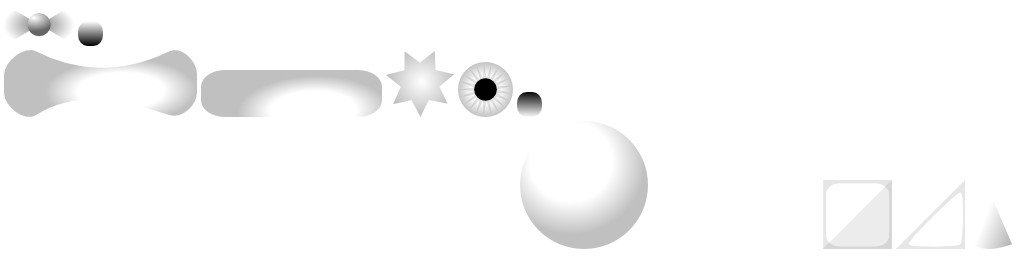
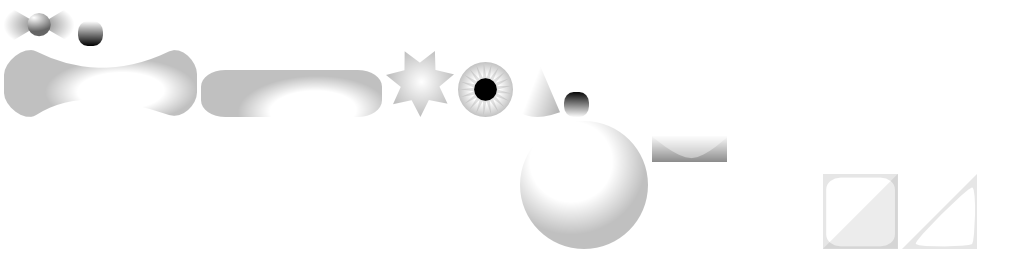
Changed textures. Allow for click selection. Better modularized Level class

diff --git a/core/src/com/morejesuslessme/tnelsond/unmutate/Level.java b/core/src/com/morejesuslessme/tnelsond/unmutate/Level.java
@@ -17,22 +17,46 @@ import com.badlogic.gdx.graphics.g2d.TextureAtlas.AtlasRegion;
 import com.badlogic.gdx.math.Vector3;
 
 public class Level {
-	public static enum blocktype{
-		DIRT, NONE, UPLEFT, UPRIGHT, DOWNLEFT, DOWNRIGHT, GRASS
-	}
-	public AtlasRegion dirt, slant;
+	public AtlasRegion dirt, slant, grass;
 	public int w = 12;
 	public int h = 16;
 	public int tile = 32;
-	public blocktype blocks[][];
-	public float GRAVITY = 0.4f;
+	public int blocks[][];
 	public Index[] spawns = new Index[4];
+
+	public float GRAVITY = 0.4f;
+
+	public final static int NONE = 1;
+	public final static int DIRT = 2;
+	public final static int GRASS = 3;
+	public Special[] special = new Special[10];
+
+	public Color dirtColor = new Color(.4f, 0.2f, 0, 1);
+	public Color dirtColor2 = new Color(.3f, 0.16f, 0, 1);
+	public Color grassColor = new Color(.2f, .5f, 0, 1);
+	public Color skyColor = new Color(.4f, .8f, 1, 1);
+	
+	public boolean isSpecial(int n){
+		return n <= 0;
+	}
+
+	public Special getSpecial(int n){
+		return special[-n];
+	}
+
+	// Checks if a special block is solid
+	public boolean isSpecialSolid(int n, Creature c){
+		if(n <= 0 && special[-n] != null){
+			return special[-n].isSolid(c);	
+		}
+		return false;
+	}
 
 	LinkedList grassGrow = new LinkedList();
 
 	public void consume(int r, int c){
-		if(blocks[r][c] == Level.blocktype.GRASS){
-			blocks[r][c] = Level.blocktype.DIRT;
+		if(blocks[r][c] == Level.GRASS){
+			blocks[r][c] = Level.DIRT;
 			int offset = 0;
 			if(grassGrow.size() > 0){
 				TileAction last = (TileAction) grassGrow.getLast();
@@ -46,7 +70,7 @@ public class Level {
 		if(grassGrow.size() > 0){
 			TileAction t = (TileAction) grassGrow.element();
 			if(t != null && t.tick()){
-				blocks[t.r][t.c] = Level.blocktype.GRASS;
+				blocks[t.r][t.c] = Level.GRASS;
 				grassGrow.remove(t);
 			}
 		}
@@ -55,11 +79,12 @@ public class Level {
 	public Level(TextureAtlas atlas, String filename){
 		dirt = atlas.findRegion("dirt");
 		slant = atlas.findRegion("dirtslant");
+		grass = atlas.findRegion("grass");
 		Reader reader = Gdx.files.internal(filename).reader();
 		Scanner scan = new Scanner(reader);
 		w = scan.nextInt();
 		h = scan.nextInt();
-		blocks = new blocktype[h][w];
+		blocks = new int[h][w];
 		int row = h;
 		int spawn = 0;
 		while(scan.hasNextLine()) {
@@ -68,21 +93,22 @@ public class Level {
 			for(int i=0; i<str.length(); ++i){
 				char ch = str.charAt(i);
 				if(ch == '#'){
-					blocks[row][col] = Level.blocktype.DIRT;
+					blocks[row][col] = Level.DIRT;
 				}
 				else if(ch == 'o'){
-					blocks[row][col] = Level.blocktype.GRASS;
+					blocks[row][col] = Level.GRASS;
 				}
 				else if(ch == '$'){
 					spawns[spawn++] = new Index(row, col);
-					blocks[row][col] = Level.blocktype.NONE;
+					blocks[row][col] = Level.NONE;
 				}
+				/*
 				else if(ch == '/'){
 					if(row < h && blocks[row + 1][col] == Level.blocktype.DIRT){
-						blocks[row][col] = Level.blocktype.UPLEFT;
+						blocks[row][col] = BlockType.UPLEFT;
 					}
 					else{
-						blocks[row][col] = Level.blocktype.DOWNRIGHT;
+						blocks[row][col] = BlockType.DOWNRIGHT;
 					}
 				}
 				else if(ch == '\\'){
@@ -93,8 +119,9 @@ public class Level {
 						blocks[row][col] = Level.blocktype.DOWNLEFT;
 					}
 				}
+				*/
 				else
-					blocks[row][col] = Level.blocktype.NONE;
+					blocks[row][col] = Level.NONE;
 				++col;
 			}
 			--row;
@@ -111,26 +138,32 @@ public class Level {
 			return;
 		for(int r=r1; r<r2; ++r){
 			for(int c=c1; c<c2; ++c){
-				if(blocks[r][c] != Level.blocktype.NONE){
-					if(blocks[r][c] == Level.blocktype.GRASS){
-						if((r + c) % 2 == 1)
-							batch.setColor(.1f, .7f, .0f, 1);
-						else
-							batch.setColor(.1f, .6f, .0f, 1);
+				if(blocks[r][c] != Level.NONE){
+					if(isSpecial(blocks[r][c])){
+						batch.setColor(getSpecial(blocks[r][c]).outside);
 					}
+					else
+						batch.setColor(((r + c) % 2 == 1) ? dirtColor : dirtColor2);
+					/*
 					else{
 						if((r + c) % 2 == 1)
 							batch.setColor(.4f, .3f, 0, 1);
 						else
 							batch.setColor(.3f, .2f, 0, 1);
-						if(blocks[r][c] != Level.blocktype.DIRT){
-							batch.draw(slant, c*tile, r*tile, tile/2, tile/2, tile, tile, (blocks[r][c] == Level.blocktype.UPLEFT || blocks[r][c] == Level.blocktype.DOWNLEFT) ? -1 : 1, (blocks[r][c] == Level.blocktype.UPRIGHT || blocks[r][c] == Level.blocktype.UPLEFT) ? -1 : 1, 0);
+						if(blocks[r][c] != BlockType.DIRT){
+							batch.draw(slant, c*tile, r*tile, tile/2, tile/2, tile, tile, (blocks[r][c] == BlockType.UPLEFT || blocks[r][c] == Level.blocktype.DOWNLEFT) ? -1 : 1, (blocks[r][c] == Level.blocktype.UPRIGHT || blocks[r][c] == Level.blocktype.UPLEFT) ? -1 : 1, 0);
 							continue;
 						}
 					}
+					*/
 
 					//batch.draw(dirt, c*tile - 0.5f, r*tile - 0.5f, tile + 1, tile + 1); // Compensating for gaps.
 					batch.draw(dirt, c*tile, r*tile, tile, tile); // Compensating for gaps.
+
+					if(blocks[r][c] == Level.GRASS){
+						batch.setColor(grassColor);
+						batch.draw(grass, c*tile, r*tile + tile*3/4, tile, tile/3); // Compensating for gaps.
+					}
 				}
 			}
 		}

diff --git a/core/src/com/morejesuslessme/tnelsond/unmutate/TInput.java b/core/src/com/morejesuslessme/tnelsond/unmutate/TInput.java
@@ -114,6 +114,8 @@ public class TInput implements InputProcessor {
 		int index = -1;
 		Creature temp = null;
 		Creature otherparent = null;
+		if(game.selectedCreature == null)
+			return;
 		if(!game.selectedCreature.breedable)
 			game.selectedCreature.checkForGrass(game.currentlevel);
 		if(game.selectedCreature.breedable && game.selectedCreature.sex != Genome.Sex.STERILE){
@@ -282,17 +284,23 @@ public class TInput implements InputProcessor {
 		return false;
 	}
 
-	public boolean touchDown (int x, int y, int pointer, int button) {
-		if(game.selectedCreature == null){
-			for(Creature c : game.creatures){
-				if(c != null){
-					Vector3 pos = new Vector3(x, y, 0);
-					game.viewport.unproject(pos);
-					if(c.contains(pos.x, pos.y)){
-						game.setCreature(c);
-					}
+	public void clickCreature(int x, int y){
+		for(int i = game.creatures.length - 1; i >= 0; --i){
+			Creature c = game.creatures[i];
+			if(c != null){
+				Vector3 pos = new Vector3(x, y, 0);
+				game.viewport.unproject(pos);
+				if(c.contains(pos.x, pos.y)){
+					game.setCreature(c);
+					break;
 				}
 			}
+		}
+	}
+
+	public boolean touchDown (int x, int y, int pointer, int button) {
+		if(game.selectedCreature == null){
+			clickCreature(x, y);	
 			return true;
 		}
 		if(touchpad.pointer < 0){
@@ -309,7 +317,12 @@ public class TInput implements InputProcessor {
 	public boolean touchUp (int x, int y, int pointer, int button) {
 		TTouch sel = (pointer == touchpad.pointer ? touchpad : othertouch);
 		sel.pointer = -1;
+		if(sel.getDuration() < 400 && Math.abs(sel.x - sel.sx) < touchpadminradius && Math.abs(sel.y - sel.sy) < touchpadminradius){
+			clickCreature(x, y);
+		}
+
 		sel.sx = -1;
+
 		
 		return false;
 	}

diff --git a/core/src/com/morejesuslessme/tnelsond/unmutate/Creature.java b/core/src/com/morejesuslessme/tnelsond/unmutate/Creature.java
@@ -8,7 +8,6 @@ import com.badlogic.gdx.graphics.Pixmap;
 import com.badlogic.gdx.graphics.g2d.SpriteBatch;
 import com.badlogic.gdx.graphics.g2d.TextureAtlas.AtlasRegion;
 import com.badlogic.gdx.graphics.g2d.TextureAtlas;
-import com.morejesuslessme.tnelsond.unmutate.Level.blocktype;
 
 
 public class Creature extends Rectangle {
@@ -231,8 +230,8 @@ public class Creature extends Rectangle {
 			while(row.hasNext()) {
 				r = (Integer) row.next();
 				//batch.draw(level.yellowRegion, c*level.tile, r*level.tile);
-				blocktype b = level.blocks[r][c];
-				if(b != blocktype.NONE){
+				int b = level.blocks[r][c];
+				if(b != Level.NONE){
 					x = c*level.tile + cor;
 					vx = 0;
 					done = true;
@@ -293,14 +292,14 @@ public class Creature extends Rectangle {
 			while(col.hasNext()) {
 				c = (Integer) col.next();
 				//batch.draw(level.yellowRegion, c*level.tile, r*level.tile);
-				Level.blocktype b = level.blocks[r][c];
-				if(b != blocktype.NONE){
+				int b = level.blocks[r][c];
+				if(b != Level.NONE){
 					if(v < 0)
 						onGround = true;
 					y = r*level.tile + cor;
 					vy = 0;
 					done = true;
-					if(b == blocktype.GRASS){
+					if(b == Level.GRASS){
 						grassc = c;
 						grassr = r;
 						breedable = true;
@@ -325,8 +324,8 @@ public class Creature extends Rectangle {
 			c = (Integer) col.next();
 			//batch.setColor(0, 0, 0, .5f);
 			//batch.draw(level.dirt, c*level.tile, r*level.tile);
-			Level.blocktype b = level.blocks[r][c];
-			if(b == blocktype.GRASS){
+			int b = level.blocks[r][c];
+			if(b == Level.GRASS){
 				grassc = c;
 				grassr = r;
 				breedable = true;

diff --git a/core/src/com/morejesuslessme/tnelsond/unmutate/TTouch.java b/core/src/com/morejesuslessme/tnelsond/unmutate/TTouch.java
@@ -1,6 +1,7 @@
 package com.morejesuslessme.tnelsond.unmutate;
 
 import com.badlogic.gdx.math.Vector3;
+import com.badlogic.gdx.utils.TimeUtils;
 
 class TTouch{
 	public int sx;
@@ -11,6 +12,8 @@ class TTouch{
 	public int y;
 	public int pointer;	
 
+	public long time;
+
 	public TTouch(){
 		ox = -1;
 		oy = -1;
@@ -19,6 +22,7 @@ class TTouch{
 		sx = -1;
 		sy = -1;
 		pointer = -1;
+		time = 0;
 	}
 
 	public void update(int x, int y){
@@ -27,6 +31,7 @@ class TTouch{
 			sy = y;
 			ox = x;
 			oy = y;
+			time = TimeUtils.millis();
 		}
 		else {
 			ox = this.x;
@@ -34,6 +39,10 @@ class TTouch{
 		}
 		this.x = x;
 		this.y = y;	
+	}
+
+	public long getDuration(){
+		return TimeUtils.timeSinceMillis(time);
 	}
 
 	public Vector3 toVector3(){

diff --git a/core/src/com/morejesuslessme/tnelsond/unmutate/GameScreen.java b/core/src/com/morejesuslessme/tnelsond/unmutate/GameScreen.java
@@ -74,6 +74,8 @@ public class GameScreen implements Screen {
 		InputMultiplexer im = new InputMultiplexer((InputProcessor)control.stage);
 		im.addProcessor(control);
 		Gdx.input.setInputProcessor(im);
+
+		Gdx.gl.glClearColor(currentlevel.skyColor.r, currentlevel.skyColor.g, currentlevel.skyColor.b, 1);
 	}
 
 	public void loadCreatures(){
@@ -125,8 +127,6 @@ public class GameScreen implements Screen {
 		camera.position.set(pos);
 		camera.update();
 
-		Gdx.gl.glClearColor(backgroundColor.r, backgroundColor.g,
-				backgroundColor.b, 1);
 		Gdx.gl.glClear(GL20.GL_COLOR_BUFFER_BIT);
 
 		game.batch.setProjectionMatrix(camera.combined);

diff --git a/core/src/com/morejesuslessme/tnelsond/unmutate/Special.java b/core/src/com/morejesuslessme/tnelsond/unmutate/Special.java
@@ -1,0 +1,29 @@
+package com.morejesuslessme.tnelsond.unmutate;
+
+import com.badlogic.gdx.graphics.Color;
+
+public class Special{
+	public Color outside;
+	public Color inside;
+
+	public Special(Color outside, Color inside){
+		this.outside = outside;
+		this.inside = inside;
+	}
+
+	public boolean isSolid(Creature c){
+		if(outside != null){
+			if(!outside.equals(c.color)){
+				return false;
+			}
+		} 
+	
+		if(inside != null){
+			if(!inside.equals(c.eyeColor)){
+				return false;
+			}
+		}
+
+		return true;
+	}	
+}
